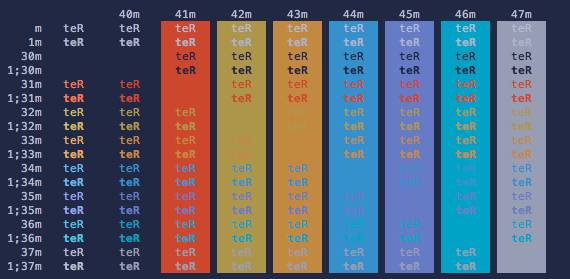
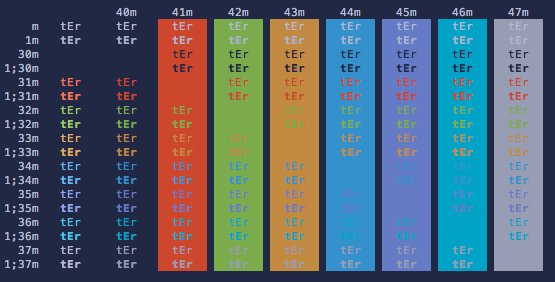
Updated theme

diff --git a/README.md b/README.md
@@ -25,6 +25,10 @@ Add the following to your `~/.bash_profile`
 
 ![Screenshot](screenshots/DarkOne.png)
 
+### DarkOneAlt
+
+![Screenshot](screenshots/DarkOneAlt.png)
+
 ### DarkFun
 
 ![Screenshot](screenshots/DarkFun.png)
